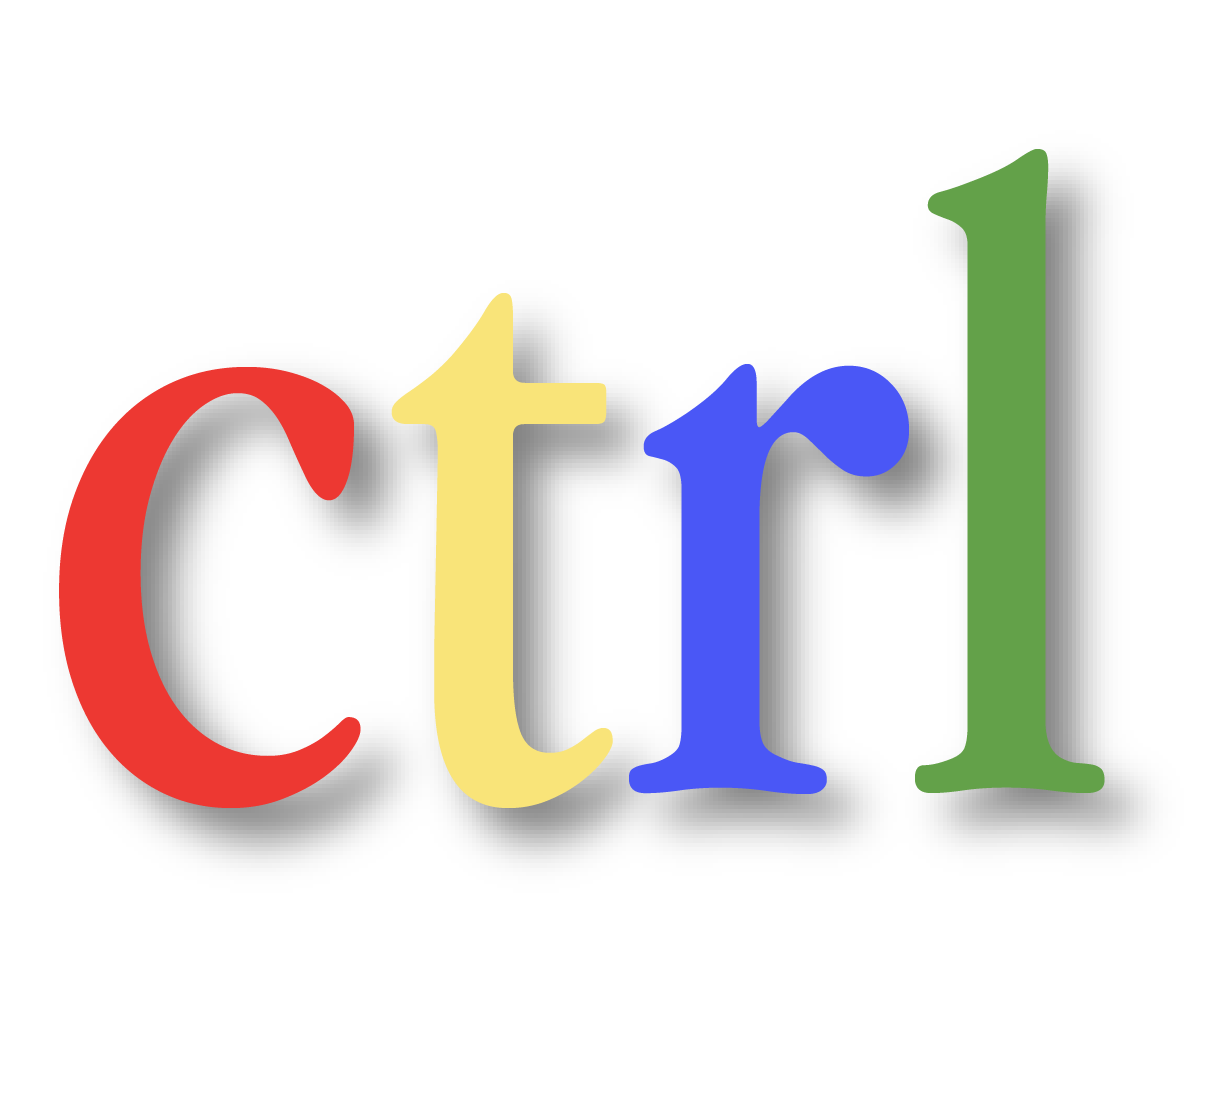
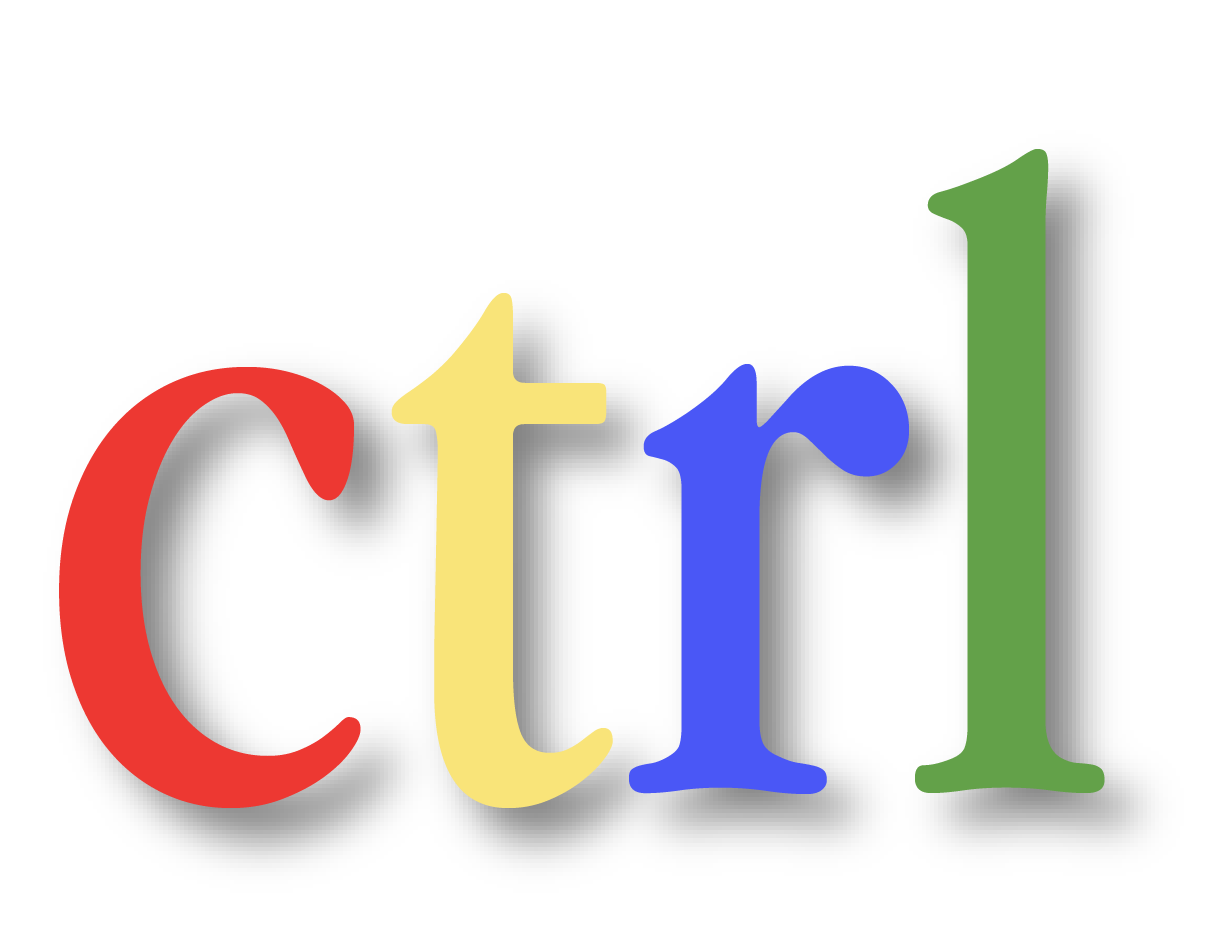
3

Changed region(s): [[0.0307, 0.2487, 0.7983, 0.9325], [0.7369, 0.6838, 0.9519, 0.9014], [0.7676, 0.1243, 0.9212, 0.2487]]

diff --git a/css/style.css b/css/style.css
@@ -109,11 +109,17 @@ html, body {
 
  #ctrldropshadow {
   text-align: left;
-  padding-bottom: 100px;
   padding-left: 80px;
+  padding-top: 190px;
 }
 
  #songmenu {
   text-align: left;
   padding-left: 20px;
+  padding-top: 15px;
+}
+
+ #menugarden {
+  text-align: left;
+  padding-left: 255px;
 }

diff --git a/menu.html b/menu.html
@@ -25,6 +25,13 @@
 		<div id="ctrldropshadow">
 			<img width ="250" src="images/ctrldropshadow.png">
 
+		<div id="songmenu">
+			<img width ="500" src="images/songmenu.png">
+
+		<div id="menugarden">
+			<a href="garden.html"><img width ="300" src="images/menugarden.png">
+
+
 
 	</body>
 </div>
